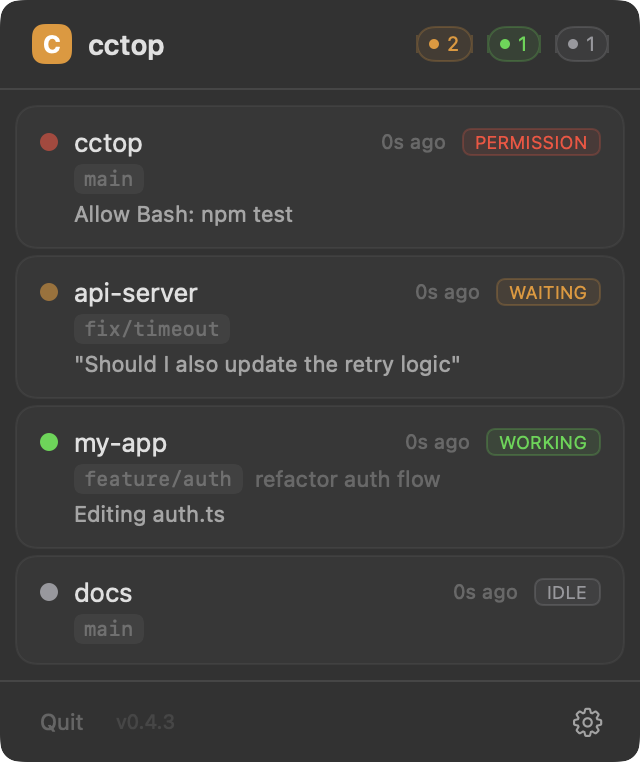
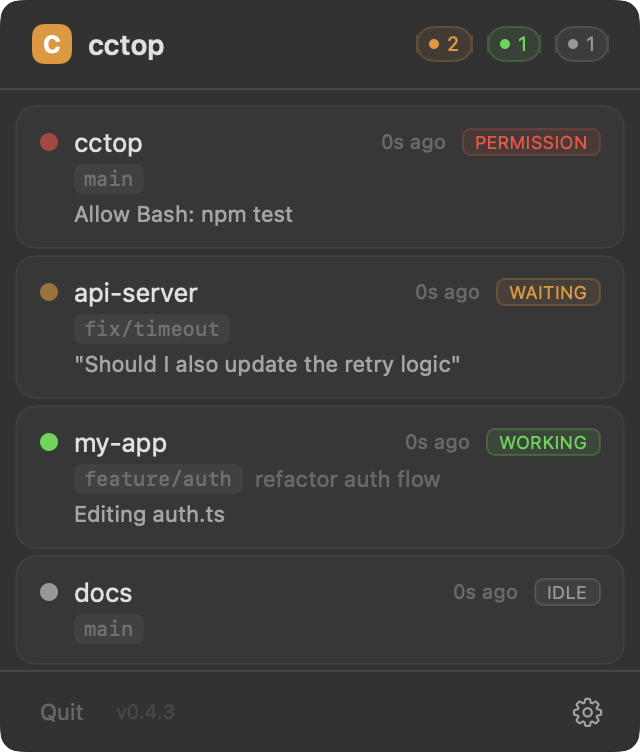
feat: cap session list at 4 visible cards and add rounded corners
Reduce scroll area maxHeight from 520 to 290 so the popup shows ~4
sessions before scrolling. Extra cards peek at the bottom to signal
scrollability. Add layer-level rounded corners to the panel hosting
view. Regenerate README screenshots.

diff --git a/menubar/CctopMenubar/AppDelegate.swift b/menubar/CctopMenubar/AppDelegate.swift
@@ -25,6 +25,9 @@ class AppDelegate: NSObject, NSApplicationDelegate, UNUserNotificationCenterDele
 
         let contentView = PanelContentView(sessionManager: sessionManager, updateChecker: updateChecker)
         let hostingView = NSHostingView(rootView: contentView)
+        hostingView.wantsLayer = true
+        hostingView.layer?.cornerRadius = 10
+        hostingView.layer?.masksToBounds = true
         hostingView.translatesAutoresizingMaskIntoConstraints = false
 
         panel = FloatingPanel(

diff --git a/menubar/CctopMenubar/Views/PopupView.swift b/menubar/CctopMenubar/Views/PopupView.swift
@@ -27,7 +27,7 @@ struct PopupView: View {
                     }
                     .padding(8)
                 }
-                .frame(maxHeight: 520)
+                .frame(maxHeight: 290)
             }
             if showSettings {
                 Divider()
